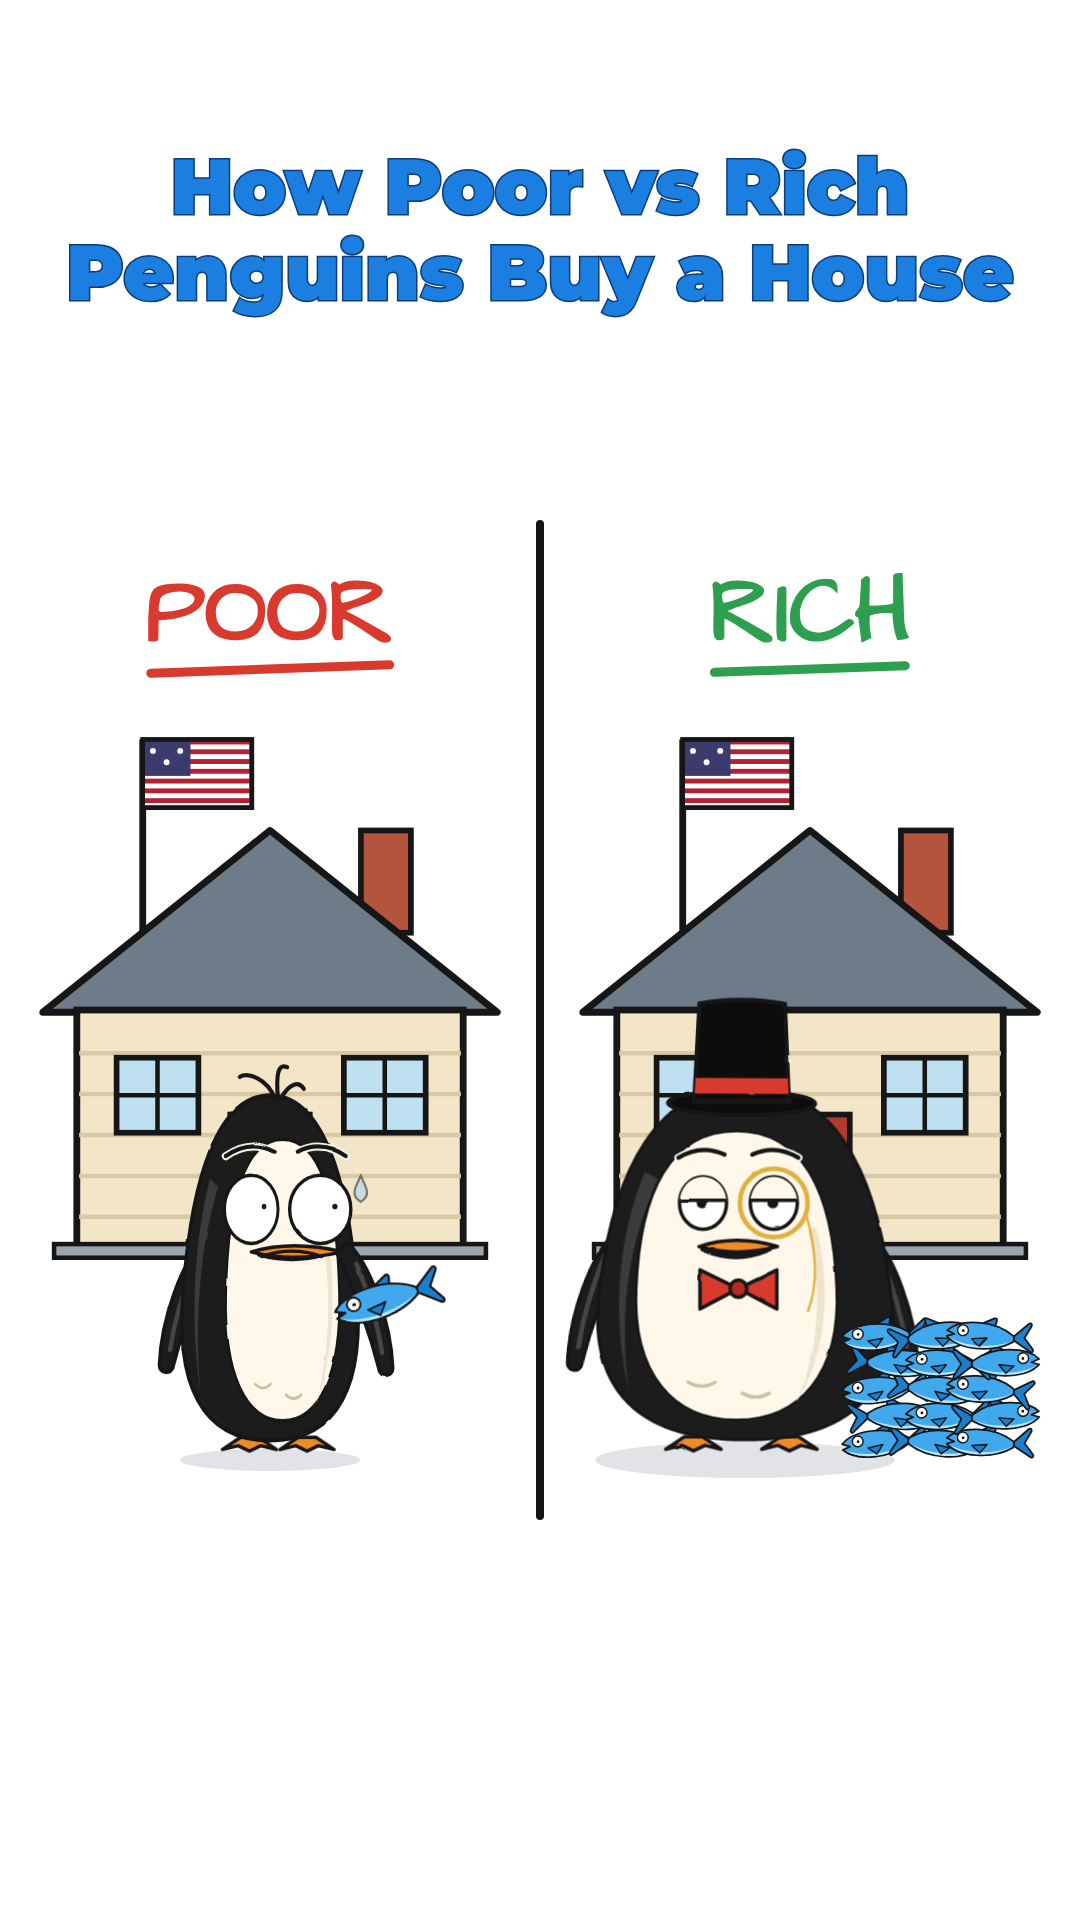
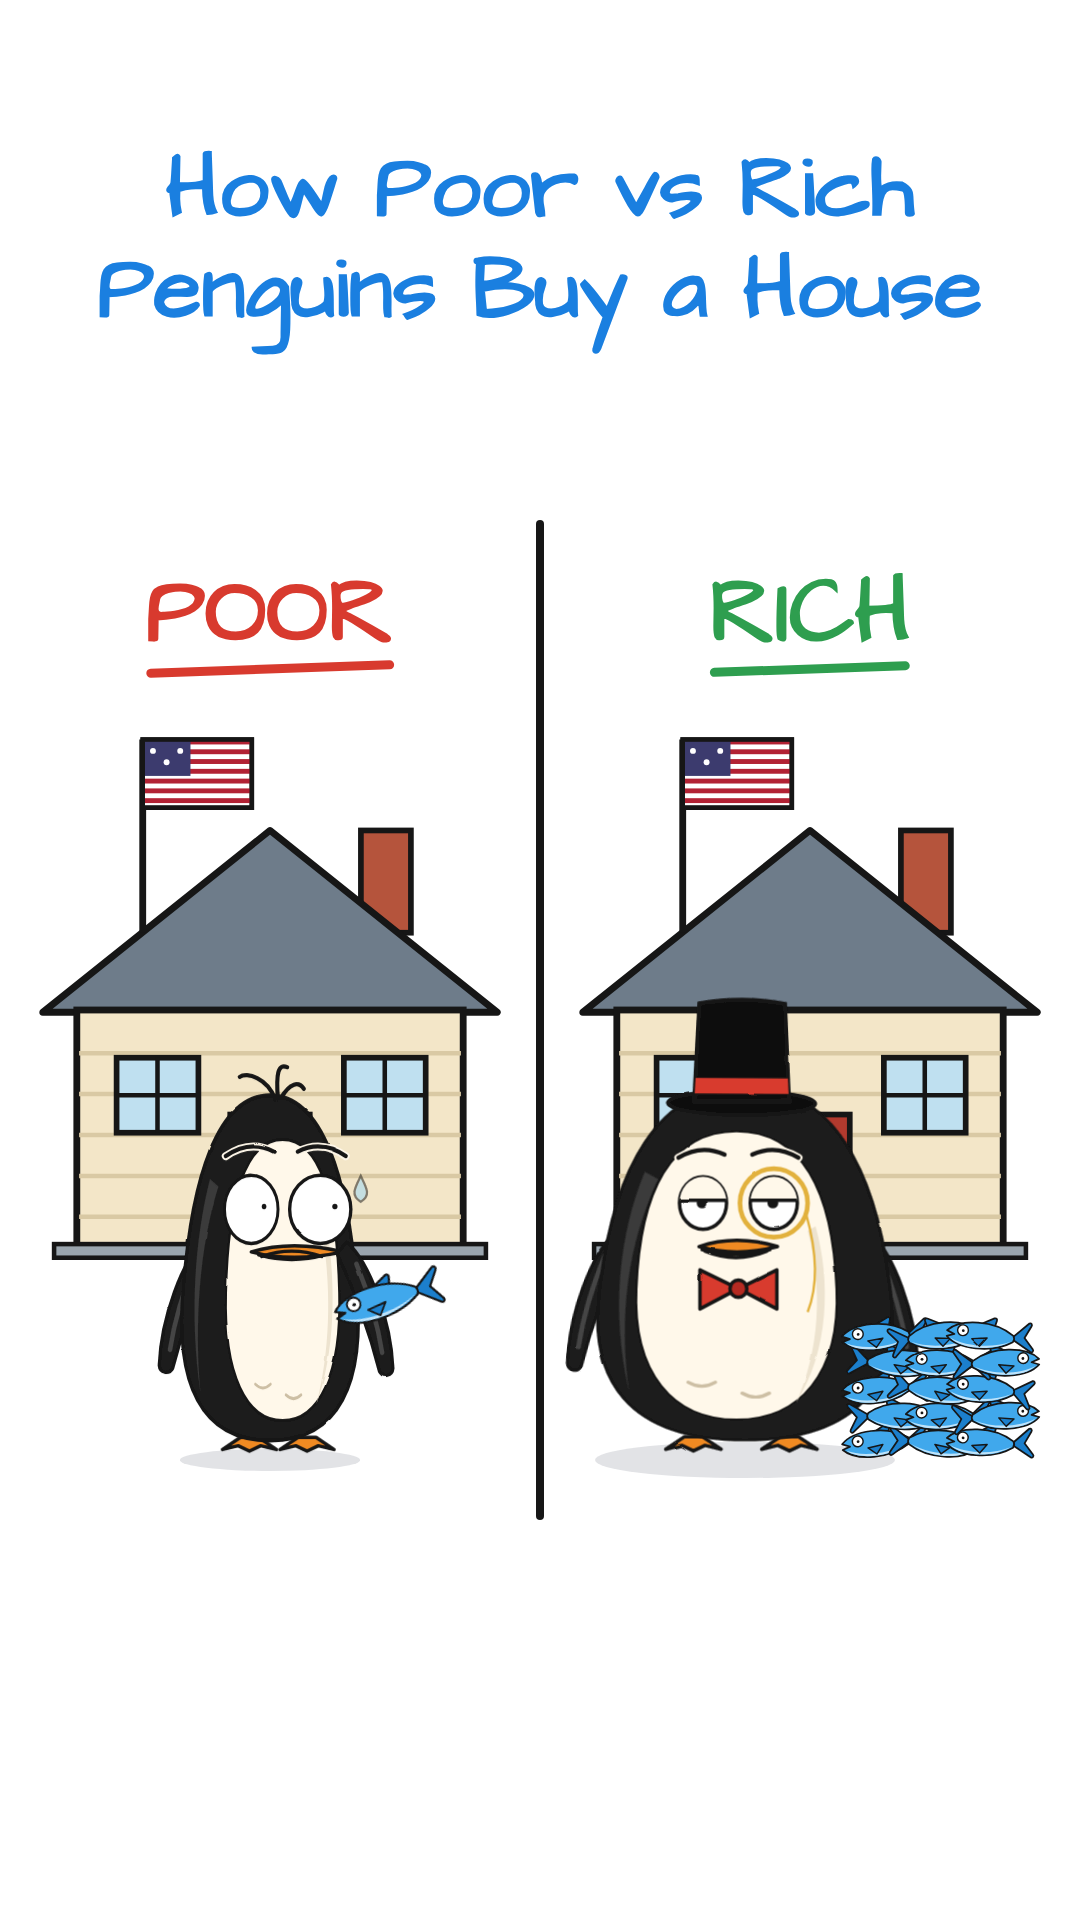
EP6 house hook: title in the POOR/RICH hand font, blue
Claude-Session: https://claude.ai/code/session_01C4hDa3fLLJhttDpbqhpiyZ

Changed region(s): [[0.0611, 0.0625, 0.9472, 0.1875]]

diff --git a/studio/src/videos/dougHouse.tsx b/studio/src/videos/dougHouse.tsx
@@ -35,10 +35,10 @@ const Label = ({text, x, color}: {text: string; x: number; color: string}) =>
   <div style={{position: 'absolute', left: x, top: 620, transform: 'translate(-50%,-50%)', textAlign: 'center', fontFamily: 'Architects Daughter', fontWeight: 700, fontSize: 92, color, lineHeight: 1}}>
     {text}<div style={{height: 9, background: color, borderRadius: 5, marginTop: 6, transform: 'rotate(-2deg)'}} /></div>;
 
-// Hook title: clean blue, thin outline, no heavy stroke/shadow, so it reads in the first second.
+// Hook title: same hand font as the POOR / RICH labels, in blue (user).
 const ClearTitle = ({lines, y, size}: {lines: string[]; y: number; size: number}) =>
   <div style={{position: 'absolute', left: 540, top: y, transform: 'translate(-50%,-50%)', textAlign: 'center'}}>
-    {lines.map((l, i) => <div key={i} style={{fontFamily: 'Montserrat', fontWeight: 900, fontSize: size, lineHeight: 1.1, whiteSpace: 'nowrap', color: '#1A7FE0', WebkitTextStroke: '3px #0B3D7A', paintOrder: 'stroke fill'}}>{l}</div>)}
+    {lines.map((l, i) => <div key={i} style={{fontFamily: 'Architects Daughter', fontWeight: 700, fontSize: size, lineHeight: 1.15, whiteSpace: 'nowrap', color: '#1A7FE0'}}>{l}</div>)}
   </div>;
 
 const RICHT = P(1);
@@ -46,7 +46,7 @@ const RICHT = P(1);
 const Hook = ({t}: {t: number}) => {
   const onRich = t >= RICHT;
   return <>
-    <ClearTitle lines={['How Poor vs Rich', 'Penguins Buy a House']} y={230} size={78} />
+    <ClearTitle lines={['How Poor vs Rich', 'Penguins Buy a House']} y={240} size={88} />
     <div style={{position: 'absolute', left: 536, top: 520, width: 8, height: 1000, background: INK, borderRadius: 4}} />
     <Label text="POOR" x={270} color={RED} />
     <Label text="RICH" x={810} color={GREEN} />
